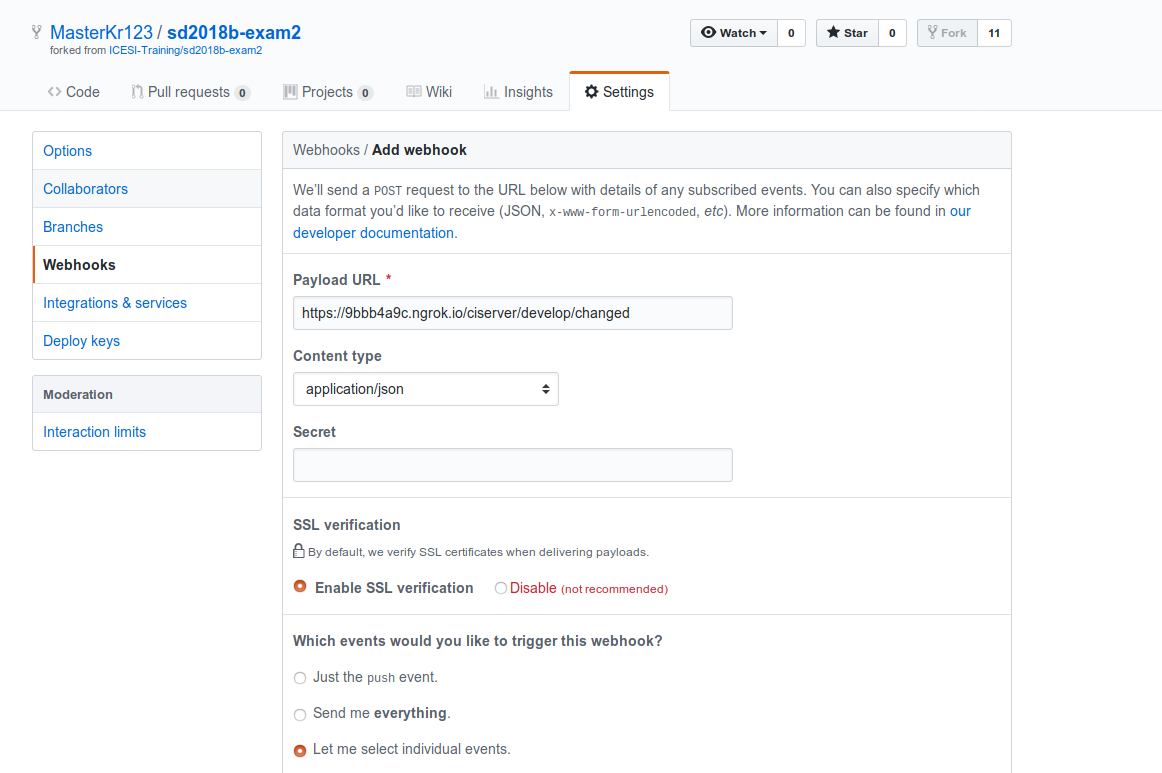
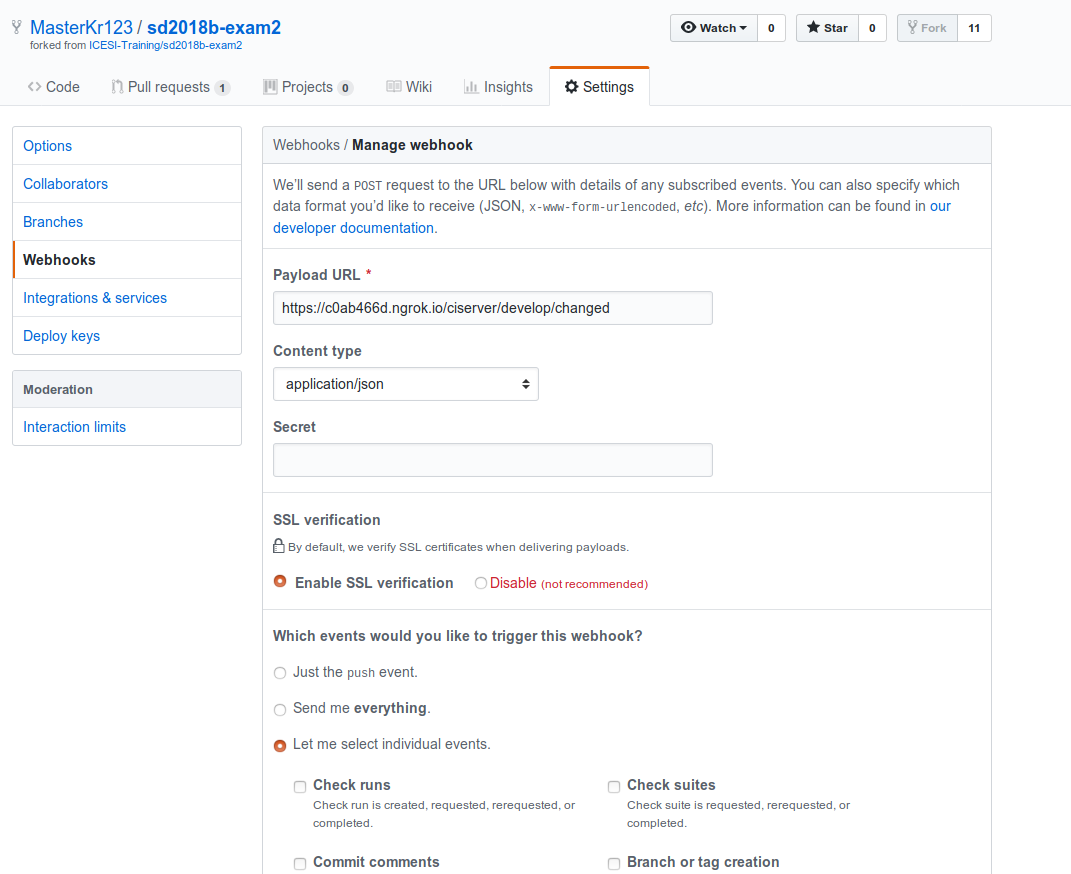
Update commit

diff --git a/README.md b/README.md
@@ -85,70 +85,15 @@ Para generar los certificados que aseguran al docker registry se hace uso de ssl
 ![][1]
 **Figura 1**. Certificados generados.
 
-#### 2.2 Crear el docker registry
-Ejecutar el comando:
-```
-docker run -d \                                   
-  --restart=always \
-  --name registry \
-  -v `pwd`/docker_data/certs:/certs \
-  -e REGISTRY_HTTP_ADDR=0.0.0.0:443 \
-  -e REGISTRY_HTTP_TLS_CERTIFICATE=/certs/domain.crt \
-  -e REGISTRY_HTTP_TLS_KEY=/certs/domain.key \
-  -p 443:443 \
-  registry
-```
-![][2]
-**Figura 2**. Creación registry.
-
-#### 2.3 Descargar las imagenes de docker
-
-Para descargar imagenes de docker ejecutamos el comando:
-```
-docker pull imagen
-```
-donde "imagen" es la imagen del repositorio de docker (ej: httpd).
-
-Para verificar las imagenes descargadas de docker se ejecuta:
-```
-docker images
-```
-![][3]
-**Figura 3**. Imagenes descargadas de docker.
-
-#### 2.4 Subir las imagenes al registry
-Primero, se debe renombrar las imagenes descargadas de docker para poder subirlas al docker registry por lo cual se ejecuta el comando:
-```
-docker tag imagen jorgeregistry/my-imagen
-```
-Donde:
-* "imagen" corresponde a alguna de las imagenes listadas (ej: httpd).
-* "jorgeregistry/my-imagen" corresponde al nuevo nombre (ej: my-imagen puede ser httpd).
-
-Luego, se ejecuta el siguiente comando para subir la imagen:
-```
-docker push jorgeregistry/my-imagen
-```
-Donde "jorgeregistry/my-imagen" es la imagen renombrada anteriormente
-
-#### 2.5 Configuración del cliente del docker REGISTRY_HTTP_ADDR
-Para que el cliente pueda consumir recursos del nuevo docker registry, requiere del certificado generado en el punto 2.1 (domain.crt).
-
-Una ves obtenga este certificado, mediante scp por ejemplo, se debe alojar en un directorio creado:
-```
-mkdir -p /etc/docker/certs.d/jorgeregistry:443/
-cp -rf ~/domain.crt /etc/docker/certs.d/jorgeregistry:443/
-```
-
-### 3. Generación del artefacto
-Para la creación del artefacto se crea un docker_compose definiendo el servicio de registry:
+### 3-4. Generación del artefacto e integración
+Para la creación del artefacto se crea un docker_compose definiendo tres servicios: registry, integración continua y ngrok:
 ```
 version: '3'
 services:
     registry:
         image: registry:2
         restart: always
-        container_name: registry
+        container_name: Registry_Server
         volumes:
             - './docker_data/certs:/certs'
         environment:
@@ -157,42 +102,165 @@ services:
             - REGISTRY_HTTP_TLS_KEY=/certs/domain.key
         ports:
             - '443:443'
+    ci_server:
+        build: CI_Server
+        container_name: CI_Server
+        volumes:
+          - //var/run/docker.sock:/var/run/docker.sock
+        environment:
+          - 'CI_SERVER_HTTP_ADDR=0.0.0.0:8080'
+        ports:
+          - '8080:8080'
+    ngrok:
+        image: wernight/ngrok
+        ports:
+          - '0.0.0.0:4040:4040'
+        links:
+          - ci_server
+        environment:
+          NGROK_PORT: ci_server:8080
 ```
-El archivo compose que define el servicio registry:
-* Usa una imagen que es construida desde DockerHub (registry:2).
-* Con volumes, monta el directorio del proyecto (directorio actual) en el host en ./docker_data/certs:/certs dentro del contenedor.
-* Configura las variables de entorno del puerto y certificados en la ubicación de los volumenes exportados.
-* Reenvía el puerto 443 expuesto en el contenedor al puerto 443 en la máquina host.
 
-Para desplegar los servicios se ejecuta el comando:
+Donde:
+
+* registry: este servicio hace referencia al registro local privado que almacena las imagenes de Docker que se estan creando en el merged de develop. En la segunda parte de esta guia se tiene dos certificados SSL autofirmados creados con OpenSSL que permiten que el servidor sea confiable.
+
+* ngrok: está vinculada al ci_server en su puerto 8080 para exponer el punto final del servidor CI.
+
+* ci_server: tiene el Dockerfile para construir una imagen una vez realizado el merged. Por otro lado, administra el GitHub WebHook JSON y decide si el pull request realizado en el repositorio fue un merged. Si es asi, se construye la imágene en el registry.
+
+En el ci_server depende de una serie de ficheros:
+
+* El fichero indexer contiene los endpoint de API Rest para recibir los eventos del Ngrok.
 ```
-docker-compose up
+swagger: '2.0'
+info:
+  title: User API
+  version: "0.1.0"
+paths:
+  /ciserver/develop/changed:
+    post:
+      x-swagger-router-controller: gm_analytics
+      operationId: handlers.repository_changed
+      summary: The repository has changed.
+      responses:
+        200:
+          description: Successful response.
+          schema:
+            type: object
+            properties:
+              command_return:
+                type: string
+                description: The information is procesing
+  /:
+    post:
+      x-swagger-router-controller: gm_analytics
+      operationId: handlers.hello
+      summary: The repository has changed.
+      responses:
+        200:
+          description: Successful response.
+          schema:
+            type: object
+            properties:
+              command_return:
+                type: string
+                description: The information is procesing
+```  
+
+* El fichero handlers.py es el archivo encargado de realizar las acciónes a tomar de acuerdo al evento anterior:
 ```
+import os
+import logging
+import requests
+import json
+import docker
+from flask import Flask, request, json
+
+def hello():
+    result = {'command_return': 'work'}
+    return result
+
+def repository_changed():
+    result_swagger   = ""
+    post_json_data   = request.get_data()
+    string_json      = str(post_json_data, 'utf-8')
+    json_pullrequest = json.loads(string_json)
+    branch_merged = json_pullrequest["pull_request"]["merged"]
+    if branch_merged:
+        pullrequest_sha  = json_pullrequest["pull_request"]["head"]["sha"]
+        json_image_url     = "https://raw.githubusercontent.com/MasterKr123/sd2018b-exam2/" + pullrequest_sha + "/images.json"
+        response_image_url = requests.get(json_image_url)
+        image_data    =  json.loads(response_image_url.content)
+        for service in image_data:
+            service_name = service["service_name"]
+            image_type = service["type"]
+            image_version = service["version"]
+            if image_type == 'Docker':
+                dockerfile_image_url = "https://raw.githubusercontent.com/MasterKr123/sd2018b-exam2/" + pullrequest_sha + "/" + service_name + "/Dockerfile"
+                file_response = requests.get(dockerfile_image_url)
+                file = open("Dockerfile","w")
+                file.write(str(file_response.content, 'utf-8'))
+                file.close()
+                image_tag  = "Registry_Server:443/" + service_name + ":" + image_version
+                client = docker.DockerClient(base_url='unix://var/run/docker.sock')
+                client.images.build(path="./", tag=image_tag)
+                client.images.push(image_tag)
+                client.images.remove(image=image_tag, force=True)
+                result_swagger = image_tag + " - Image built - " + result_swagger
+            else:
+                out = {'command return' : 'JSON file have an incorrect format'}
+        out = {'cammand return' : result_swagger}
+    else:
+        out= {'command_return': 'Pull request was not merged'}
+        return out
+```
+
+* El Dockerfile es el encargado de crear el ci_server con los requerimientos.
+```
+FROM python:3.6
+
+COPY . /handler_endpoint
+
+WORKDIR /handler_endpoint
+
+RUN pip3.6 install --upgrade pip
+RUN pip3.6 install connexion[swagger-ui]
+RUN pip3.6 install --trusted-host pypi.python.org -r requirements.txt
+
+RUN ["chmod", "+x", "/handler_endpoint/deploy.sh"]
+
+CMD ./deploy.sh
+```
+
+* El deploy.sh es el encargado de levantar la aplicación.
+```
+export PYTHONPATH=$PYTHONPATH:`pwd`
+export FLASK_ENV=development
+connexion run gm_analytics/swagger/indexer.yaml --debug -p 8080
+```
+
+### Pruebas
+
+* Despliegue de los servicios alojados en el docker_compose:
+![][2]
+
+* Status del servicio Ngrok para publicar la maquina de trabajo.
+![][3]
+
+* Creación del webhook para la conexion de los eventos.
 ![][4]
-**Figura 4**. Registry up.
 
-### 4.Integración
-Para la integraión, se creo un servidor CI (Continuous Integration) mediante tecnologia Docker.
+* Merged de integración a la rama develop.
+![][5]
 
-```
-FROM centos/python-36-centos7
+* Evidencia de la respuesta del webhook.
+![][6]
 
-RUN pip3.6 install connexion
-RUN pip3.6 install fabric
-COPY ./flask_endpoint /flask_endpoint
-WORKDIR /flask_endpoint
-
-RUN ./scripts/deploy.sh
-```
-Donde
-* Se despliega una imagen de centos de docker con python3.
-* Se instala las dependencia de connexion y fabric.
-* Se monta el endpoint en el host dentro del contenedor.
-* Se ejecuta la aplicación flask del endpoint.
-
+* Evidencia de la respuesta del servidor ante el merged.
+![][7]
 
 ### 5. :heavy_check_mark:
-
 
 ### 6. Dificultades
 Para el aprovisionamiento de la infraestructura y aplicaciones se encontraron las siguientes dificultades:
@@ -203,9 +271,6 @@ Algunas ejecuciones requerian de permisos root, para solucionarlo supuse que el 
 
 * Información sobre los temas  
 A pesar de la ardua documentación que contiene Docker, la información necesaria fue dificil de encontrar. La acción tomada fue realizar una investigación e interpretación de los temas.
-
-
-
 
 
 ### Referencias
@@ -221,6 +286,9 @@ A pesar de la ardua documentación que contiene Docker, la información necesari
 * https://github.com/MasterKr123/sd2018b-exam1/tree/jcastano/sd2018b-exam1/cookbooks/ci/files/default
 
 [1]: images/generateCertificates.png
-[2]: images/createRegistry.png
-[3]: images/dockerimages.png
-[4]: registryup.png
+[2]: images/composeup.png
+[3]: images/ngrokup.png
+[4]: images/webhook.png
+[5]: images/firspullrequest.png
+[6]: images/response.png
+[7]: images/pullrequest.png
